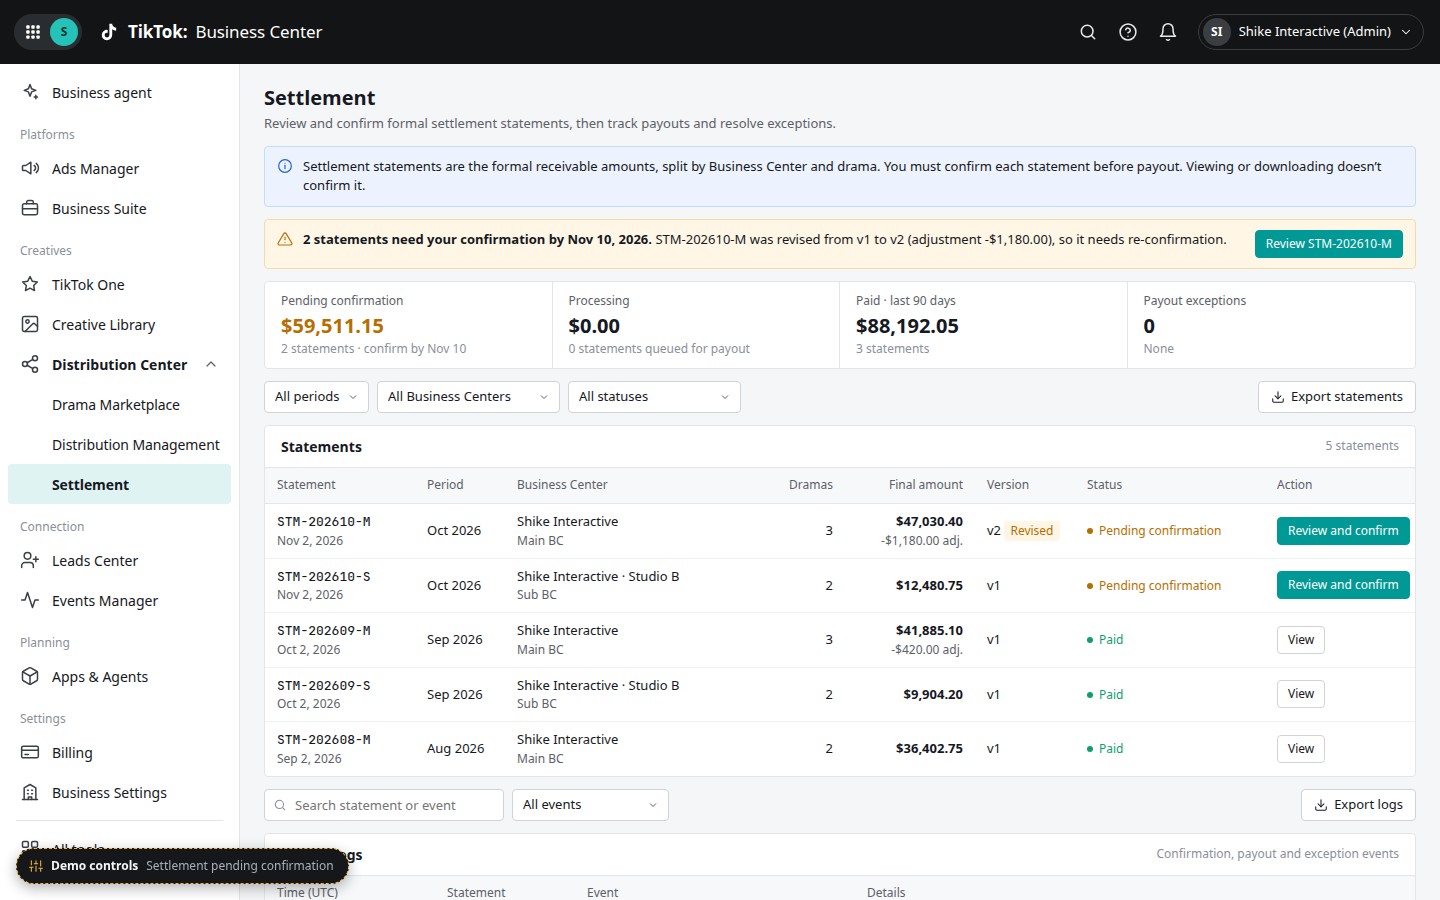
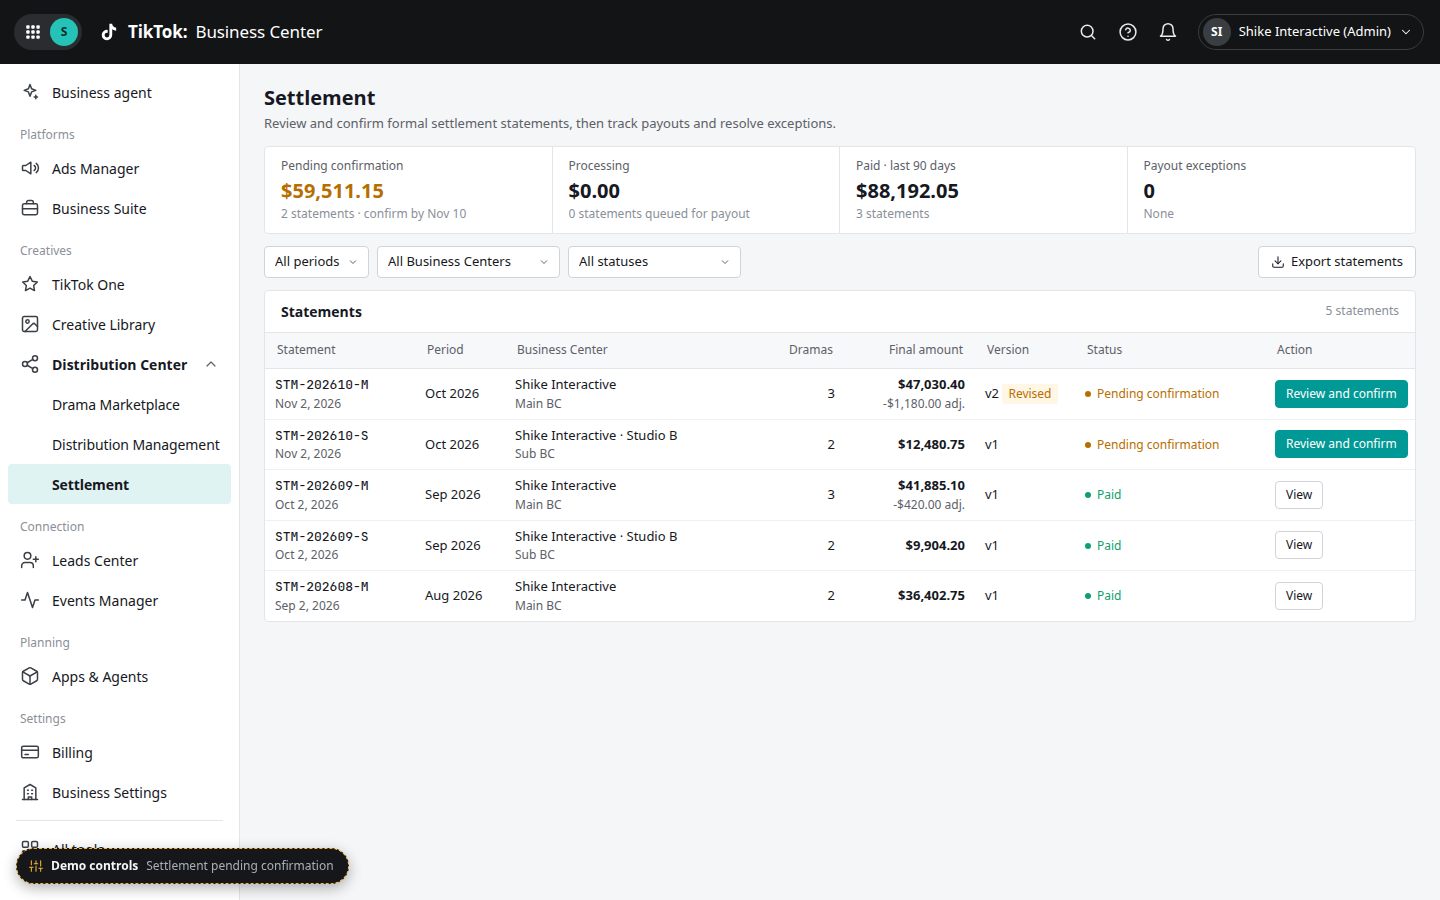
Sync prototype: drop Settlement page alerts and payout logs
Remove the Settlement page info, pending-confirmation, and payout-exception banners, plus the page-level payout logs table and toolbar. Empty, loading, and error states stay; statement drawers still show activity logs.

diff --git a/index.html b/index.html
@@ -616,7 +616,6 @@ function freshUI(){
     pick:new Set(),
     bd:{q:'', open:new Set(['CTR-902184'])},
     st:{period:'all', bc:'all', status:'all'},
-    pl:{q:'', type:'all'},
     dismissed:new Set()
   };
 }
@@ -1832,11 +1831,6 @@ function runExport(){
 function stHeader(){
   return `<div class="ph"><div><h1>Settlement</h1><p>Review and confirm formal settlement statements, then track payouts and resolve exceptions.</p></div></div>`;
 }
-function logsFiltered(){
-  const f = UI.pl; const q = f.q.trim().toLowerCase();
-  const type = l => /fail/i.test(l.e) ? 'exception' : /^Confirm/.test(l.e) ? 'confirm' : /payout/i.test(l.e) ? 'payout' : 'statement';
-  return D().logs.filter(l => !(D().stmPartial && l.stm.endsWith('-S')) && (f.type === 'all' || type(l) === f.type) && (!q || (l.stm + ' ' + l.e + ' ' + l.d).toLowerCase().includes(q)));
-}
 function stmFiltered(){
   const f = UI.st;
   return D().statements.filter(s => (f.period === 'all' || s.period === f.period) && (f.bc === 'all' || s.bc === f.bc) && (f.status === 'all' || s.status === f.status) && !(D().stmPartial && s.bc === 'sub'));
@@ -1844,12 +1838,9 @@ function stmFiltered(){
 function pageSettlement(){
   const st = S.state; const f = UI.st;
   let out = stHeader() + '<div class="stack">';
-  out += banner('info', 'Settlement statements are the formal receivable amounts, split by Business Center and drama. You must confirm each statement before payout. Viewing or downloading doesn\u2019t confirm it.');
   if (st === 'error') return out + errorBlock('settlement statements') + '</div>';
   const S2 = D().statements.filter(s => !(D().stmPartial && s.bc === 'sub'));
   const pend = S2.filter(s => s.status === 'pending'), failed = S2.filter(s => s.status === 'failed'), conf = S2.filter(s => s.status === 'confirming');
-  if (pend.length){ const rv = pend.find(s => s.revised) || pend[0]; out += banner('warn', `<b>${plural(pend.length, 'statement')} need${pend.length === 1 ? 's' : ''} your confirmation by Nov 10, 2026.</b> ${rv.revised ? rv.id + ' was revised from v1 to v2 (adjustment ' + money(rv.adj) + '), so it needs re-confirmation.' : 'Payout starts only after you confirm.'}`, `<button class="btn btn-sm btn-primary" data-act="open-stm" data-id="${rv.id}">Review ${rv.id}</button>`); }
-  if (failed.length) out += banner('err', `<b>Payout failed for ${failed.map(s => s.id).join(', ')}: beneficiary name mismatch.</b> Update the beneficiary name in Billing to match your bank account, then request a payout retry.`, `<button class="btn btn-sm" data-act="open-stm" data-id="${failed[0].id}">View log and fix</button>`);
   if (conf.length) out += banner('warn', `<b>Confirmation result unknown for ${conf[0].id}.</b> Your confirmation was submitted but not yet acknowledged. Don\u2019t confirm again.`, `<button class="btn btn-sm" data-act="stm-check" data-id="${conf[0].id}">${ic('refresh', 14)}Check status</button>`, 'clock');
   if (D().stmPartial && !UI.dismissed.has('st-partial')) out += banner('warn', '<b>Some statements couldn\u2019t load.</b> Statements for Shike Interactive · Studio B (Sub BC) are temporarily unavailable. Main BC statements are complete.', '<button class="btn btn-sm" data-act="st-partial-retry">' + ic('refresh', 14) + 'Retry Studio B</button>');
   if (st === 'invalid') out += banner('plain', 'Some links became invalid on Nov 2–3. Earnings before that are still included in statements; nothing changes for already issued statements.');
@@ -1869,10 +1860,6 @@ function pageSettlement(){
     const act = s.status === 'pending' ? `<button class="btn btn-sm btn-primary" data-act="open-stm" data-id="${s.id}">Review and confirm</button>` : s.status === 'failed' ? `<button class="btn btn-sm" data-act="open-stm" data-id="${s.id}">Fix payout</button>` : s.status === 'confirming' ? `<button class="btn btn-sm" data-act="stm-check" data-id="${s.id}">Check status</button>` : `<button class="btn btn-sm" data-act="open-stm" data-id="${s.id}">View</button>`;
     return `<tr class="clickable" data-act="open-stm" data-id="${s.id}"><td><div class="cell-title mono" style="font-size:13px">${s.id}</div><div class="cell-sub">${s.generated}</div></td><td>${s.period}</td><td><div class="ell">${b.name}</div><div class="cell-sub">${b.role}</div></td><td class="num">${s.split.length}</td><td class="num"><b>${money(stmFinal(s))}</b>${s.adj ? '<div class="cell-sub">' + money(s.adj) + ' adj.</div>' : ''}</td><td>v${s.version}${s.revised ? ' <span class="tag warn">Revised</span>' : ''}</td><td>${stChip(STM_ST, s.status)}${s.failReason ? '<div class="st-reason">' + s.failReason + '</div>' : ''}</td><td>${act}</td></tr>`; }).join('');
   out += `<div class="panel"><div class="panel-h"><h3>Statements</h3><span class="faint" style="font-size:12px">${plural(list.length, 'statement')}</span></div><div class="tbl-wrap"><table class="tbl"><thead><tr><th style="width:150px">Statement</th><th style="width:90px">Period</th><th>Business Center</th><th class="num" style="width:70px">Dramas</th><th class="num" style="width:130px">Final amount</th><th style="width:100px">Version</th><th style="width:190px">Status</th><th style="width:150px">Action</th></tr></thead><tbody>${rows || `<tr><td colspan="8">${emptyBlock('search', 'No statements match your filters', '', '<button class="btn" data-act="st-clear">Clear filters</button>')}</td></tr>`}</tbody></table></div></div>`;
-  const logs = logsFiltered();
-  const pl = UI.pl;
-  out += `<div class="toolbar"><div class="left"><label class="search">${ic('search', 14)}<input class="input" name="pl-q" data-inp="pl-q" value="${esc(pl.q)}" placeholder="Search statement or event" aria-label="Search payout logs"></label>${sel('pl.type', pl.type, [['all','All events'],['confirm','Confirmations'],['payout','Payouts'],['exception','Exceptions'],['statement','Statement updates']], 'Event type')}</div><div class="right"><button class="btn" data-act="pl-export">${ic('download', 14)}Export logs</button></div></div>`;
-  out += `<div class="panel"><div class="panel-h"><h3>Payout logs</h3><span class="faint" style="font-size:12px">Confirmation, payout and exception events</span></div><div class="tbl-wrap"><table class="tbl"><thead><tr><th style="width:170px">Time (UTC)</th><th style="width:140px">Statement</th><th style="width:280px">Event</th><th>Details</th></tr></thead><tbody>${logs.length ? '' : `<tr><td colspan="4">${emptyBlock('search', 'No log events match your filters', '', '<button class="btn" data-act="pl-clear">Clear filters</button>')}</td></tr>`}${logs.map(l => `<tr><td class="cell-sub">${l.t.replace(' UTC', '')}</td><td><button class="btn-link mono" data-act="open-stm" data-id="${l.stm}">${l.stm}</button></td><td><span class="st ${l.k || 'muted'}" style="white-space:normal;line-height:16px">${l.e}</span></td><td class="cell-sub" style="white-space:normal">${l.d}</td></tr>`).join('')}</tbody></table></div></div>`;
   return out + '</div>';
 }
 function stmDrawer(id){
@@ -2022,12 +2009,9 @@ const ACT = {
   'open-stm': (el, e) => { if (e) e.stopPropagation(); const id = el.dataset.id; if (S.page !== 'settlement') go('settlement', () => openDrawer(() => stmDrawer(id))); else openDrawer(() => stmDrawer(id)); },
   'st-kpi': el => { UI.st.status = UI.st.status === el.dataset.s ? 'all' : el.dataset.s; render(); },
   'st-clear': () => { UI.st = freshUI().st; render(); },
-  'pl-clear': () => { UI.pl = freshUI().pl; render(); },
   'st-export': () => { const list = stmFiltered(); if (!list.length){ toast('No statements match your filters.', 'warn'); return; }
     download('settlement-statements.csv', csv([['Statement','Period','Business Center','BC ID','Version','Gross (USD)','Adjustments (USD)','Final amount (USD)','Status']].concat(list.map(s => [s.id, s.period, BCS[s.bc].name, BCS[s.bc].id, s.version, s.gross.toFixed(2), s.adj.toFixed(2), stmFinal(s).toFixed(2), STM_ST[s.status][1]]))));
     toast('Exported ' + plural(list.length, 'statement') + '. Exporting doesn\u2019t confirm any statement.'); },
-  'pl-export': () => { const list = logsFiltered(); if (!list.length){ toast('No log events match your filters.', 'warn'); return; }
-    download('payout-logs.csv', csv([['Time (UTC)','Statement','Event','Details']].concat(list.map(l => [l.t, l.stm, l.e, l.d])))); toast('Exported ' + plural(list.length, 'log event') + '.'); },
   'st-partial-retry': el => busy(el, 800, () => { D().stmPartial = false; render(); toast('Studio B statements loaded.'); }),
   'stm-download': el => { const s = stmOf(el.dataset.id); const rows = [['Statement','Period','Business Center','BC ID','Version','Contract ID','Drama','Collection ID','Amount (USD)']];
     s.split.forEach(([k, cols]) => cols.forEach(c => rows.push([s.id, s.period, BCS[s.bc].name, BCS[s.bc].id, s.version, k, ctrOf(k).title, c[0], c[1].toFixed(2)])));
@@ -2095,8 +2079,7 @@ const CHG = {
 const INP = {
   'mk-q': el => { UI.mk.q = el.value; render(); },
   'lv-q': el => { UI.lv.q = el.value; UI.lv.page = 1; render(); },
-  'bd-q': el => { UI.bd.q = el.value; render(); },
-  'pl-q': el => { UI.pl.q = el.value; render(); }
+  'bd-q': el => { UI.bd.q = el.value; render(); }
 };
 
 document.addEventListener('click', e => {

diff --git a/README.md b/README.md
@@ -10,7 +10,7 @@ Three business modules, all under **Creatives → Distribution Center** in the l
 
 - **Drama Marketplace** — browse distributable dramas on cards with 9:16 portrait covers and claim collections, one drama at a time or in bulk: tick the checkbox on several drama cards, then **Claim collections** to claim across multiple contracts at once. Claiming is a two-step flow: **Confirm selection** (pick the collections to claim) → **Generate links** (distribution links are generated, with **Copy all** / **Export all** for use in TTAM).
 - **Distribution Management** — link view (drama, publisher account, revenue, status) and by-drama view. Export links, open TTAM from row actions, and monitor validity. Claiming in Marketplace auto-generates links.
-- **Settlement** — settlement statements, confirmation, and payout logs.
+- **Settlement** — settlement statements and confirmation.
 
 A **floating demo controller** (bottom-left, dashed yellow outline — not part of the product UI) switches between **4 views × 9 states**:
 
